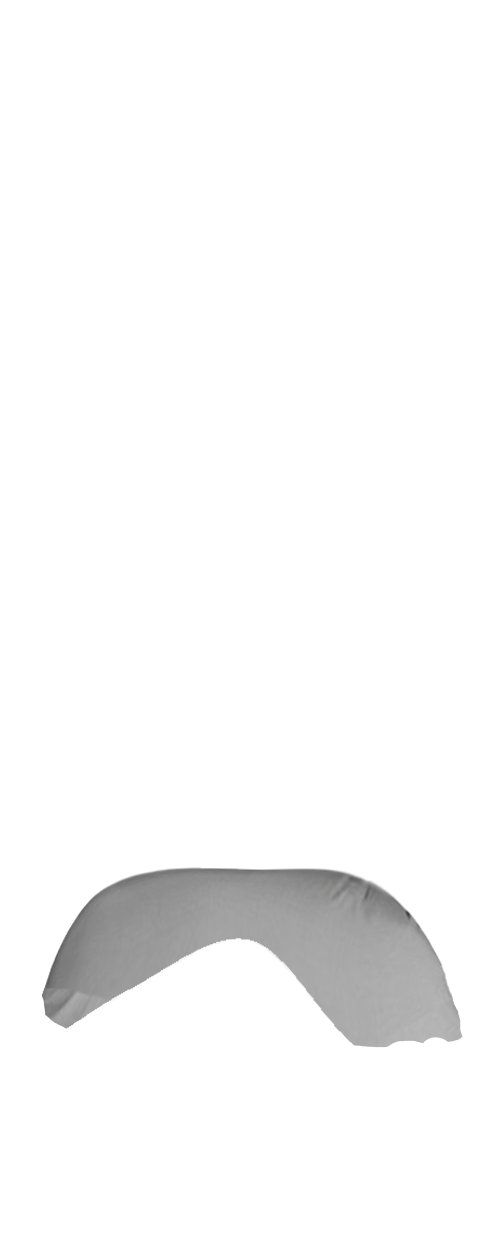
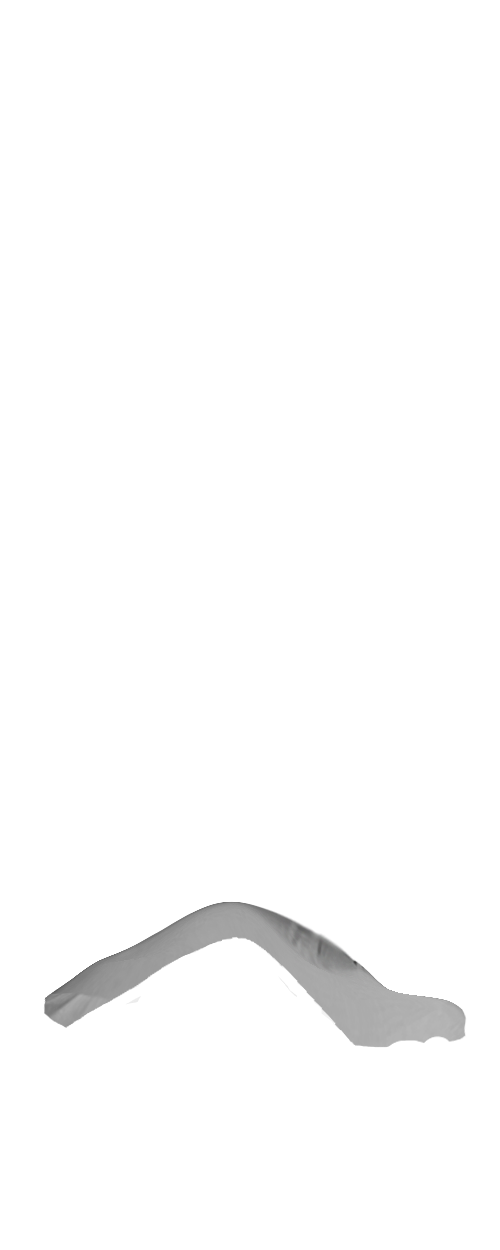
edits / tweaking
-few fixes
-priority adds
- item blocking

Changed region(s): [[0.09, 0.6864, 0.93, 0.8424]]

diff --git a/BondageClub/Assets/Female3DCG/Female3DCG.js b/BondageClub/Assets/Female3DCG/Female3DCG.js
@@ -3909,12 +3909,12 @@ var AssetFemale3DCG = [
 				]
 			},
 			{ 
-				Name: "PetBed", Fetish: ["Pet"], Value: 50, Difficulty: -25, SelfBondage: 0, Time: 5, RemoveTime: 5, Effect: ["Tethered"], RemoveAtLogin: true, SetPose: ["Kneel"], FixedPosition: true, Extended: true, 
+				Name: "PetBed", Fetish: ["Pet"], Value: 50, Difficulty: -25, SelfBondage: 0, Time: 5, RemoveTime: 5, Effect: ["Tethered"], RemoveAtLogin: true, SetPose: ["Kneel"], FixedPosition: true, Extended: true, HasType: false,
 				Layer: [
 					{ Name: "Lining", Priority: 1, AllowColorize: false},
-					{ Name: "Bed", AllowColorize: true, Alpha: [{ Masks: [[0, 800, 500, 250]] }] },
-					{ Name: "Blanket", AllowColorize: true, Alpha: [{ Masks: [[0, 0, 0, 0]] }], AllowTypes: ["Blanket"] },
-					{ Name: "Inner", AllowColorize: true, AllowTypes: ["Blanket"]},
+					{ Name: "Bed", AllowColorize: true, Alpha: [{ Masks: [[0, 800, 500, 250]] }] }, 
+					{ Name: "Blanket", Priority: 6, AllowColorize: true, Alpha: [{ Masks: [[0, 0, 0, 0]] }], AllowTypes: ["Blanket"] },
+					{ Name: "Inner", Priority: 2, AllowColorize: true, AllowTypes: ["Blanket"]},
 				], 
 			},
 			{

diff --git a/BondageClub/Screens/Inventory/ItemDevices/PetBed/PetBed.js b/BondageClub/Screens/Inventory/ItemDevices/PetBed/PetBed.js
@@ -3,11 +3,22 @@
 var InventoryItemDevicesPetBedOptions = [
 	{
 		Name: "NoBlanket",
-		Property: { Type: null },
+		Property: { 
+			Type: null 
+		},
 	},
 	{
 		Name: "Blanket",
-		Property: { Type: "Blanket" },
+		Property: { 
+			Type: "Blanket", 
+			SetPose: ["AllFours"],
+			Alpha: [{ Masks: [[0, 0, 500, 1000]] }],
+			Block: [
+				"ItemArms", "ItemBreast", "ItemButt", "ItemFeet", 
+				"ItemLegs", "ItemMisc", "ItemNipples", "ItemNipplesPiercings", 
+				"ItemPelvis", "ItemTorso", "ItemVulva", "ItemVulvaPiercings"
+			]
+		},
 	},
 ];
 
